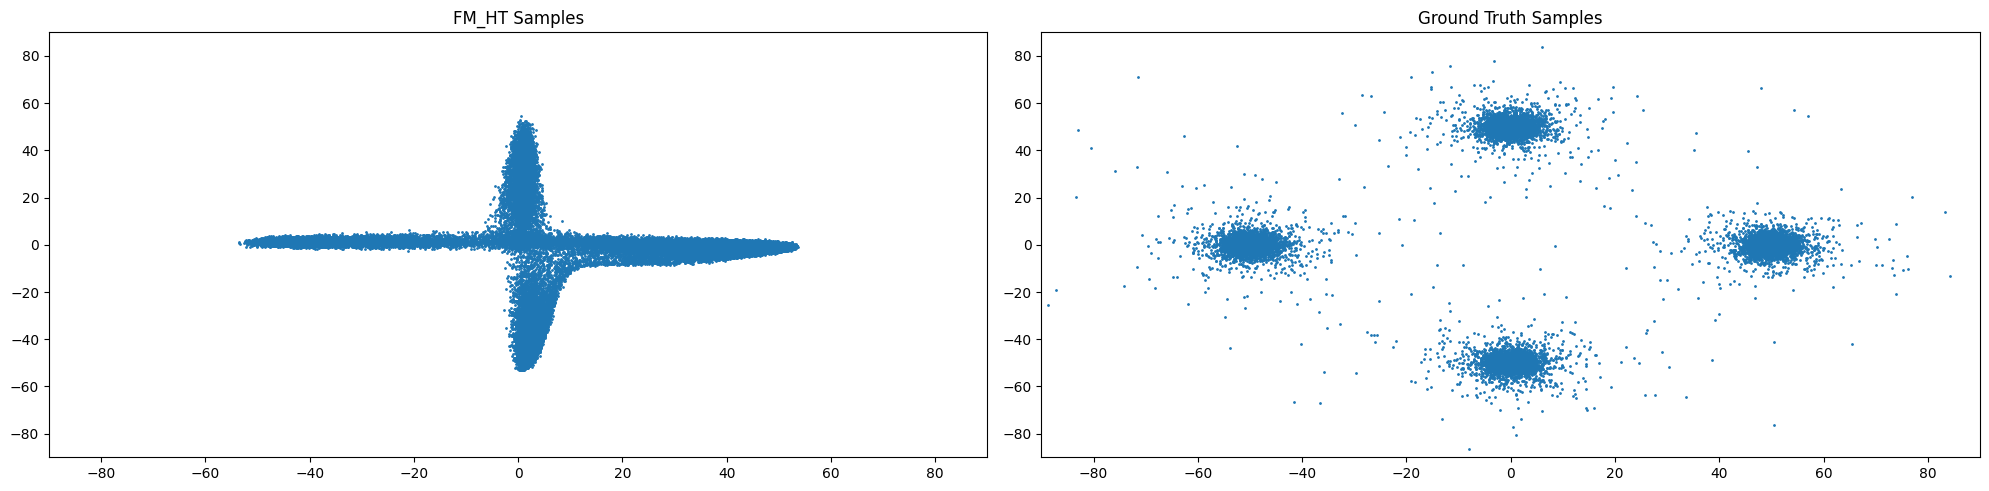
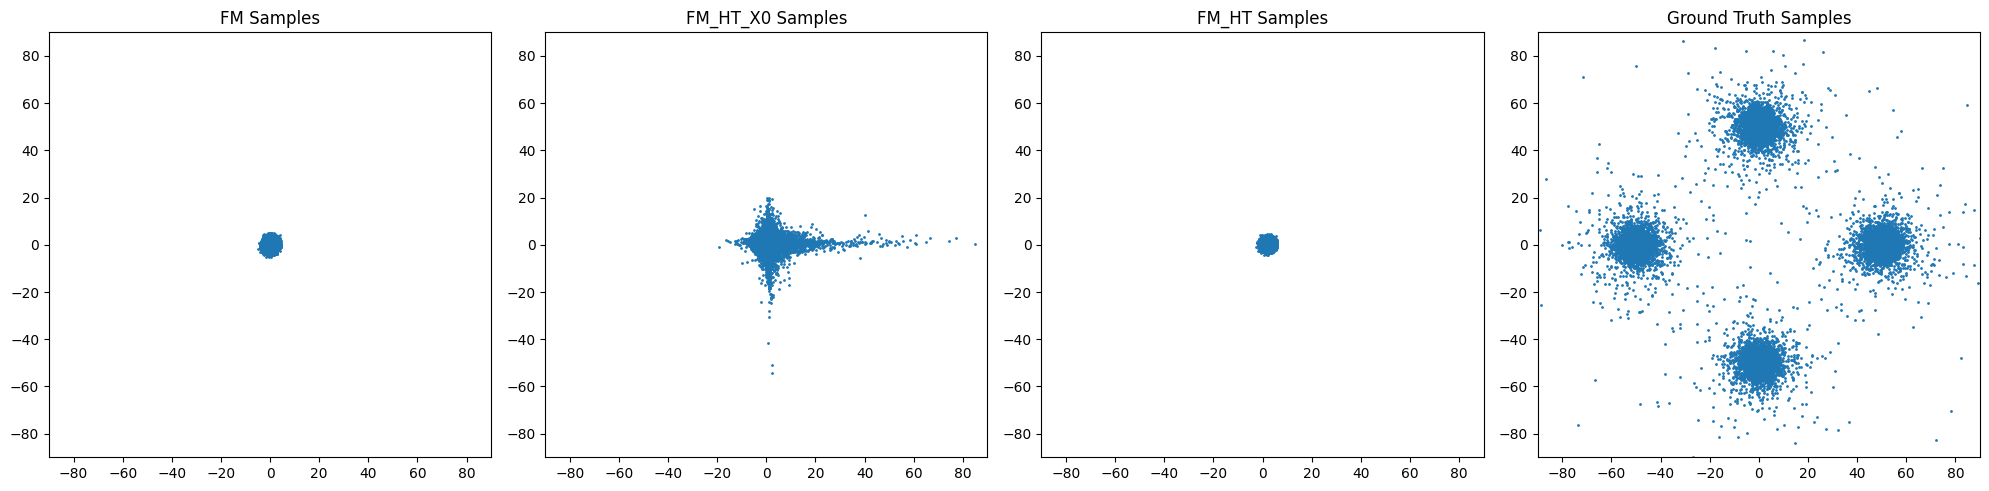
kaggle

diff --git a/main.py b/main.py
@@ -33,7 +33,7 @@ def main():
     dataloader1 = torch.utils.data.DataLoader(X1, batch_size=2048, shuffle=True)
     dataloader0 = torch.utils.data.DataLoader(X0, batch_size=2048, shuffle=True)
 
-    device = 'cuda'
+    device = 'cpu'
 
     # Setting the parameters of the model
     dim = 2
@@ -48,7 +48,7 @@ def main():
     model_FM.train(optimizer_fm, dataloader1 , dataloader0 , n_epochs=epochs)
     gen_FM_samples, hist_FM = model_FM.sample_from(X0.to(device))
 
-    """"""""""""""""
+
     net = FMnet().to(device)
     ttf = basicTTF(dim=dim).to(device)
 
@@ -59,7 +59,6 @@ def main():
     model_FMX0_HT = FlowMatchingX0HT(net, ttf, dim, device)
     model_FMX0_HT.train(optimizer, dataloader1, dataloader0, epochs)
     gen_samples_X0, hist = model_FMX0_HT.sample_from(X0.to(device))
-    """""""""""
 
     net_HT = HeavyT_MLP().to(device)
     model_FM_HT = GaussFlowMatching_OT(net_HT, device=device)
@@ -72,8 +71,8 @@ def main():
 
     # Plots
     plot_model_samples(
-        [ gen_samples_FM_HT, gen_FM_samples],
-        [ 'FM_HT', 'FM'],
+        [ gen_FM_samples, gen_samples_X0, gen_samples_FM_HT],
+        [ 'FM', 'FM_HT_X0', 'FM_HT'],
         X1)
 
 

diff --git a/models/Flow_X0HT.py b/models/Flow_X0HT.py
@@ -1,7 +1,7 @@
 import torch
 import torch.nn as nn
 import numpy as np
-
+from .utils import NativeScalerWithGradNormCount as NativeScaler
 
 class FlowMatchingX0HT:
     def __init__(self, net, TTF, L=10, device='cpu'):
@@ -13,6 +13,7 @@ class FlowMatchingX0HT:
 
     def train(self, optim, X1_loader, X0_loader, n_epochs=10):
         print("Training flow matching X0...")
+        loss_scaler = NativeScaler()
 
         for epoch in range(n_epochs):
             for x1, x0 in zip(X1_loader, X0_loader):
@@ -30,9 +31,13 @@ class FlowMatchingX0HT:
                 optim.zero_grad()
 
                 loss = self.loss_fn(self.flow(x_t, t), dx_t)
-                loss.backward()
 
-                optim.step()
+                loss_scaler(
+                    loss,
+                    optim,
+                    parameters=self.net.parameters(),
+                    update_grad=True,
+                    )
 
             print(f"Epoch {epoch+1}/{n_epochs} - Loss: {loss.item():.6f}")
 

diff --git a/TTF/basic.py b/TTF/basic.py
@@ -13,7 +13,7 @@ class basicTTF(torch.nn.Module):
         return torch.log(1 + torch.exp(x))
 
     def normalize(self, x):
-        return (1+torch.tanh(x))/3 + 1e-1
+        return (1+torch.tanh(x))/4 + 1e-1
 
     def forward(self, z):
 
